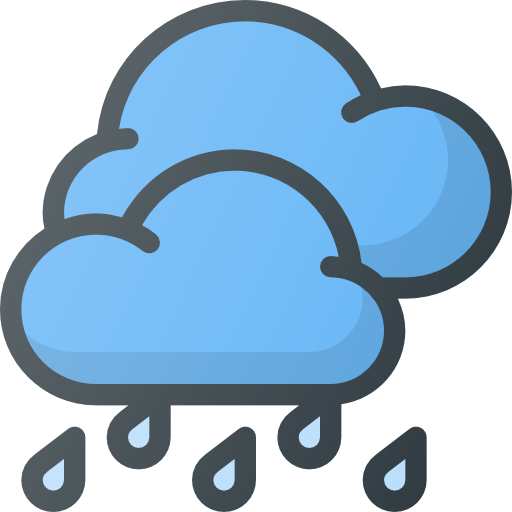
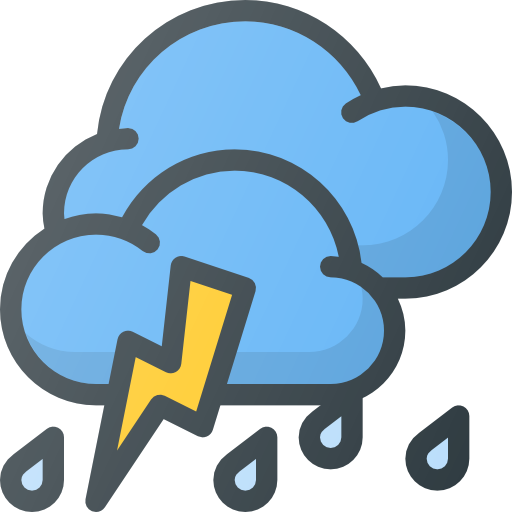
Implemented the Api requestes

Changed region(s): [[0.0, 0.5, 0.9375, 1.0]]

diff --git a/__init__.py b/__init__.py
@@ -1,3 +1,10 @@
+from datetime import date
+from time import sleep
+from albert import *
+import requests
+import json
+from geopy import *
+from geopy.extra.rate_limiter import RateLimiter
 """
 Shows the weather for the selected city.
 
@@ -6,13 +13,56 @@ The extension shows the main informations about the wheater of the selected city
 Synopsis: <trigger> [city]
 """
 __doc__     = "Show the weather of the selected city"
-__title__   = "Weather"
-__version__ = "0.1"
+__title__   = "weather"
+__version__ = "0.1.0"
 __triggers__ = "wt "
 __authors__  = "elements72, adrianoRieti"
+__py_deps__ = "geopy"
 
 def initialize():
     pass
 
-def handleQuery(Query):
-    pass    
+def handleQuery(query):
+    if not query.isTriggered:
+        return
+    city = query.string
+    debug(city)
+    data = getData(city, query)
+    if data != None:
+        return make_item(city, data)
+    else:
+        return
+        #return make_item("City not found", None)
+
+def getData(city, query):
+    if query.isValid:
+        geocoder = Nominatim(user_agent="http")
+        location = geocoder.geocode(city)
+        if location != None:
+            url = "http://www.7timer.info/bin/api.pl?lon={0}&lat={1}&lang=it&product=civillight&output=json".format(location.longitude, location.latitude)
+            response = requests.get(url)
+            data = json.loads(response.text)
+            return data["dataseries"][0]
+    return None
+
+
+def make_item(city, data):
+    text = city
+    temperature = ""
+    imgDir = "./images/"
+    iconPath = imgDir + "warning.png"
+    iconPaths = {"clear":{"iconPath": "sun.png"}, "pcloudy":{"iconPath": "cloud.png"}, "mcloudy":{"iconPath": "cloud.png"}, "cloudy":{"iconPath": "044-cloudy-2.png"},
+                "humid":{"iconPath": "027-humidity.png"}, "lightrain":{"iconPath": "022-rain-1.png"}, "oshower": {"iconPath": "030-storm.png"}, 
+                "ishower":{"iconPath": "rain.png"}, "rain":{"iconPath": "rain.png"}, "lightsnow":{"iconPath": "snowy.png"}, 
+                "snow":{"iconPath": "snowy.png"}, "rainsnow":{"iconPath": "017-snowy-1.png"}}
+    if data != None:
+        iconPath = imgDir + iconPaths[data["weather"]]["iconPath"]
+        text = text + " " + data["weather"]
+        temperature = "Max:{}° Min:{}°".format(data["temp2m"]["max"], data["temp2m"]["min"])
+    return [Item(
+        id = __title__,
+        text = text,
+        subtext = temperature,
+        icon = iconPath,
+        actions = [],
+    )]  
